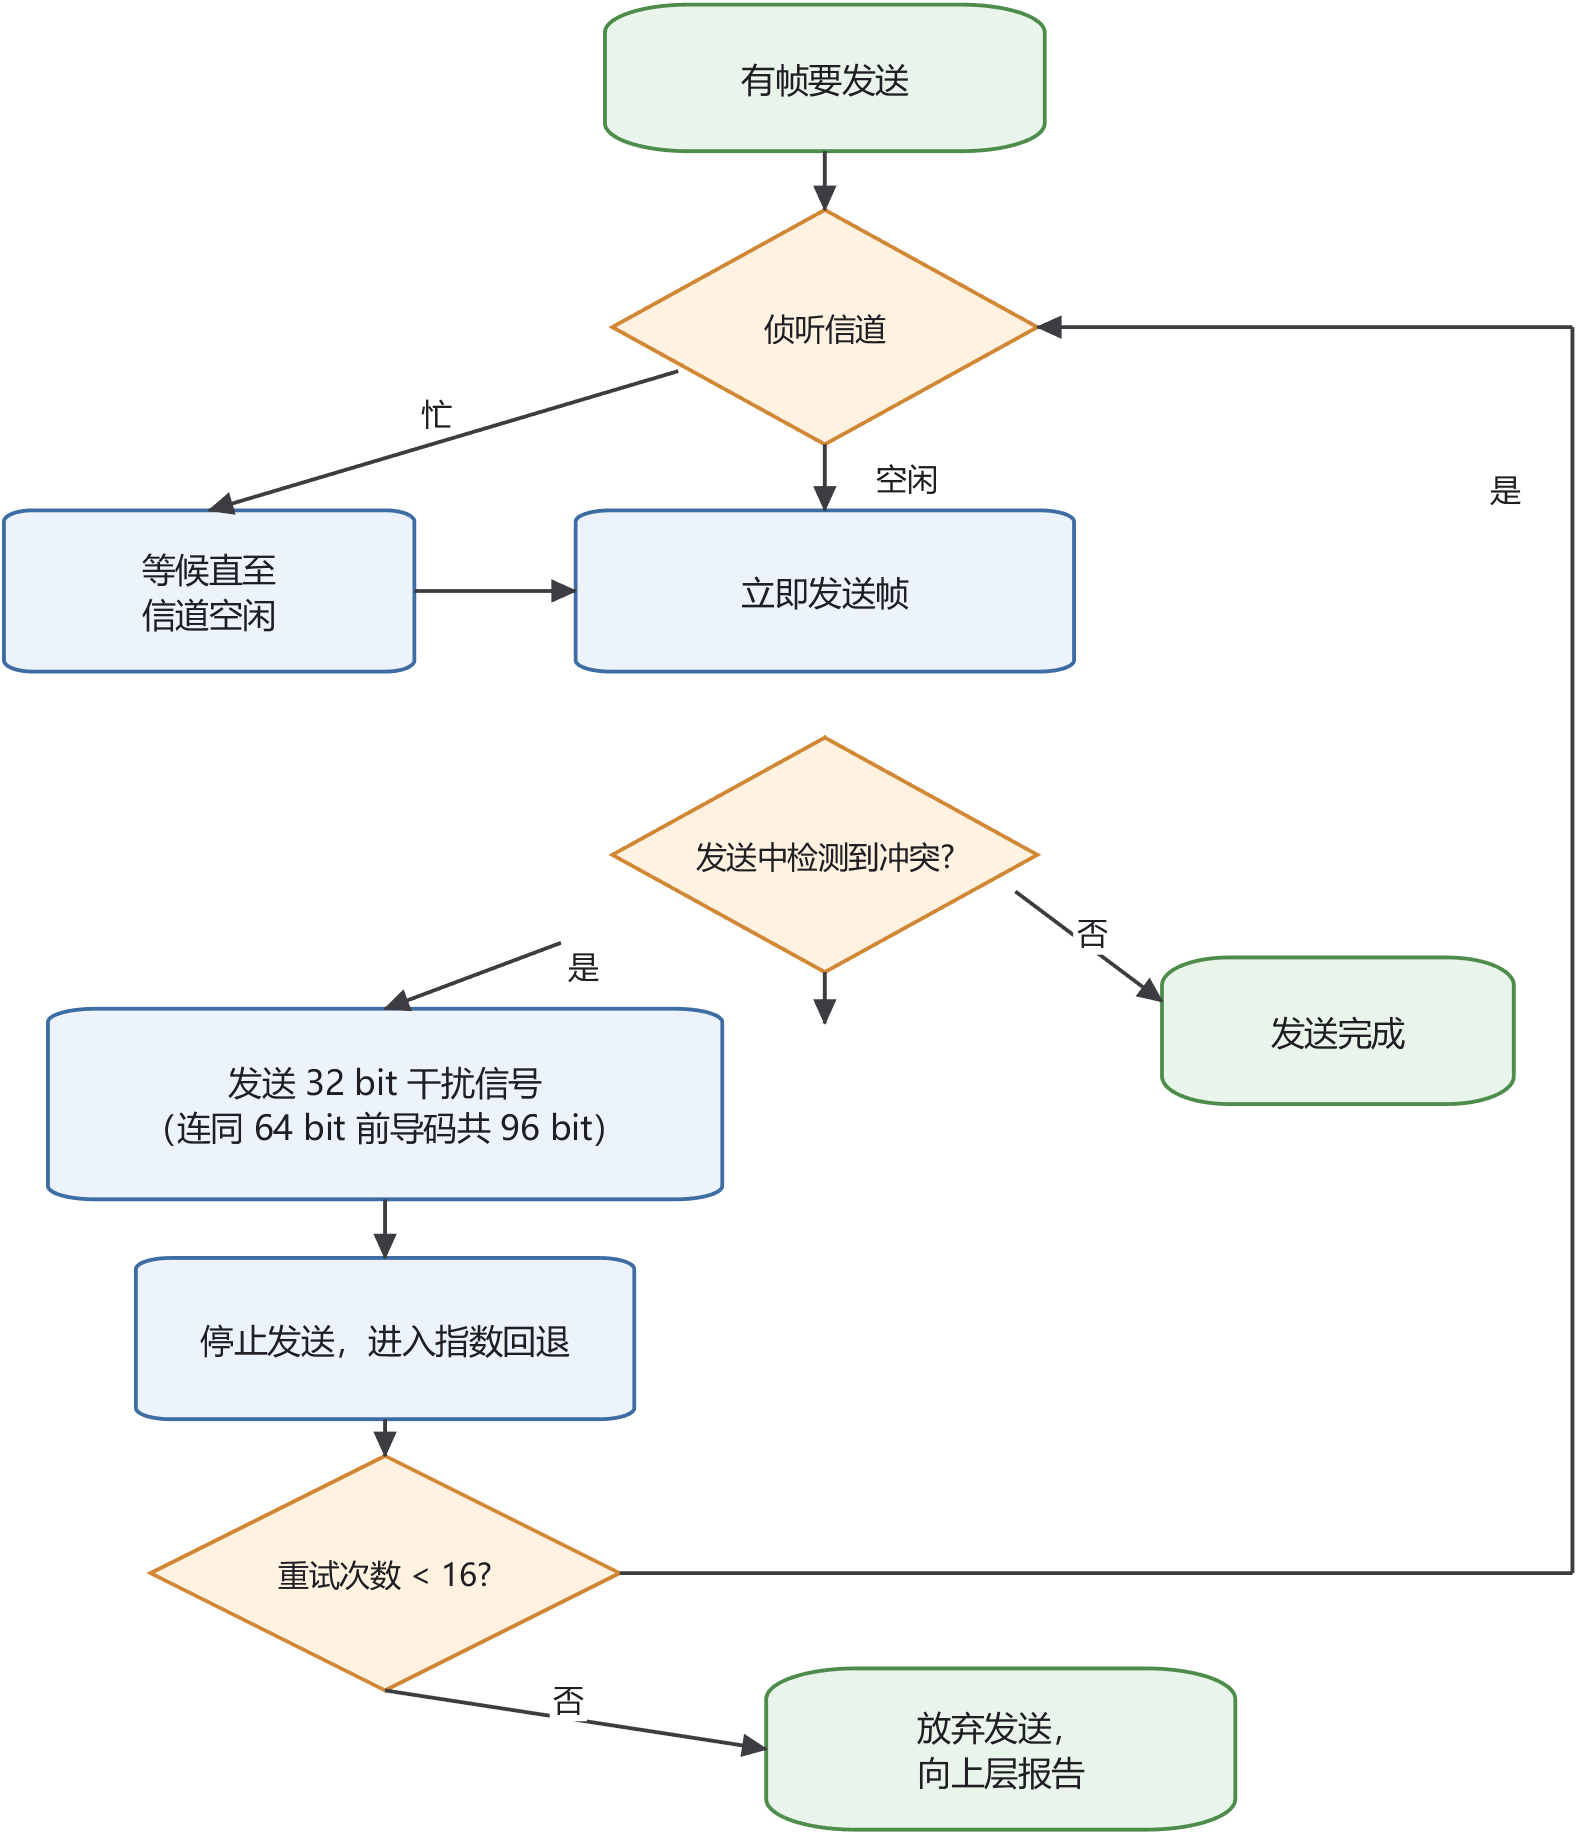
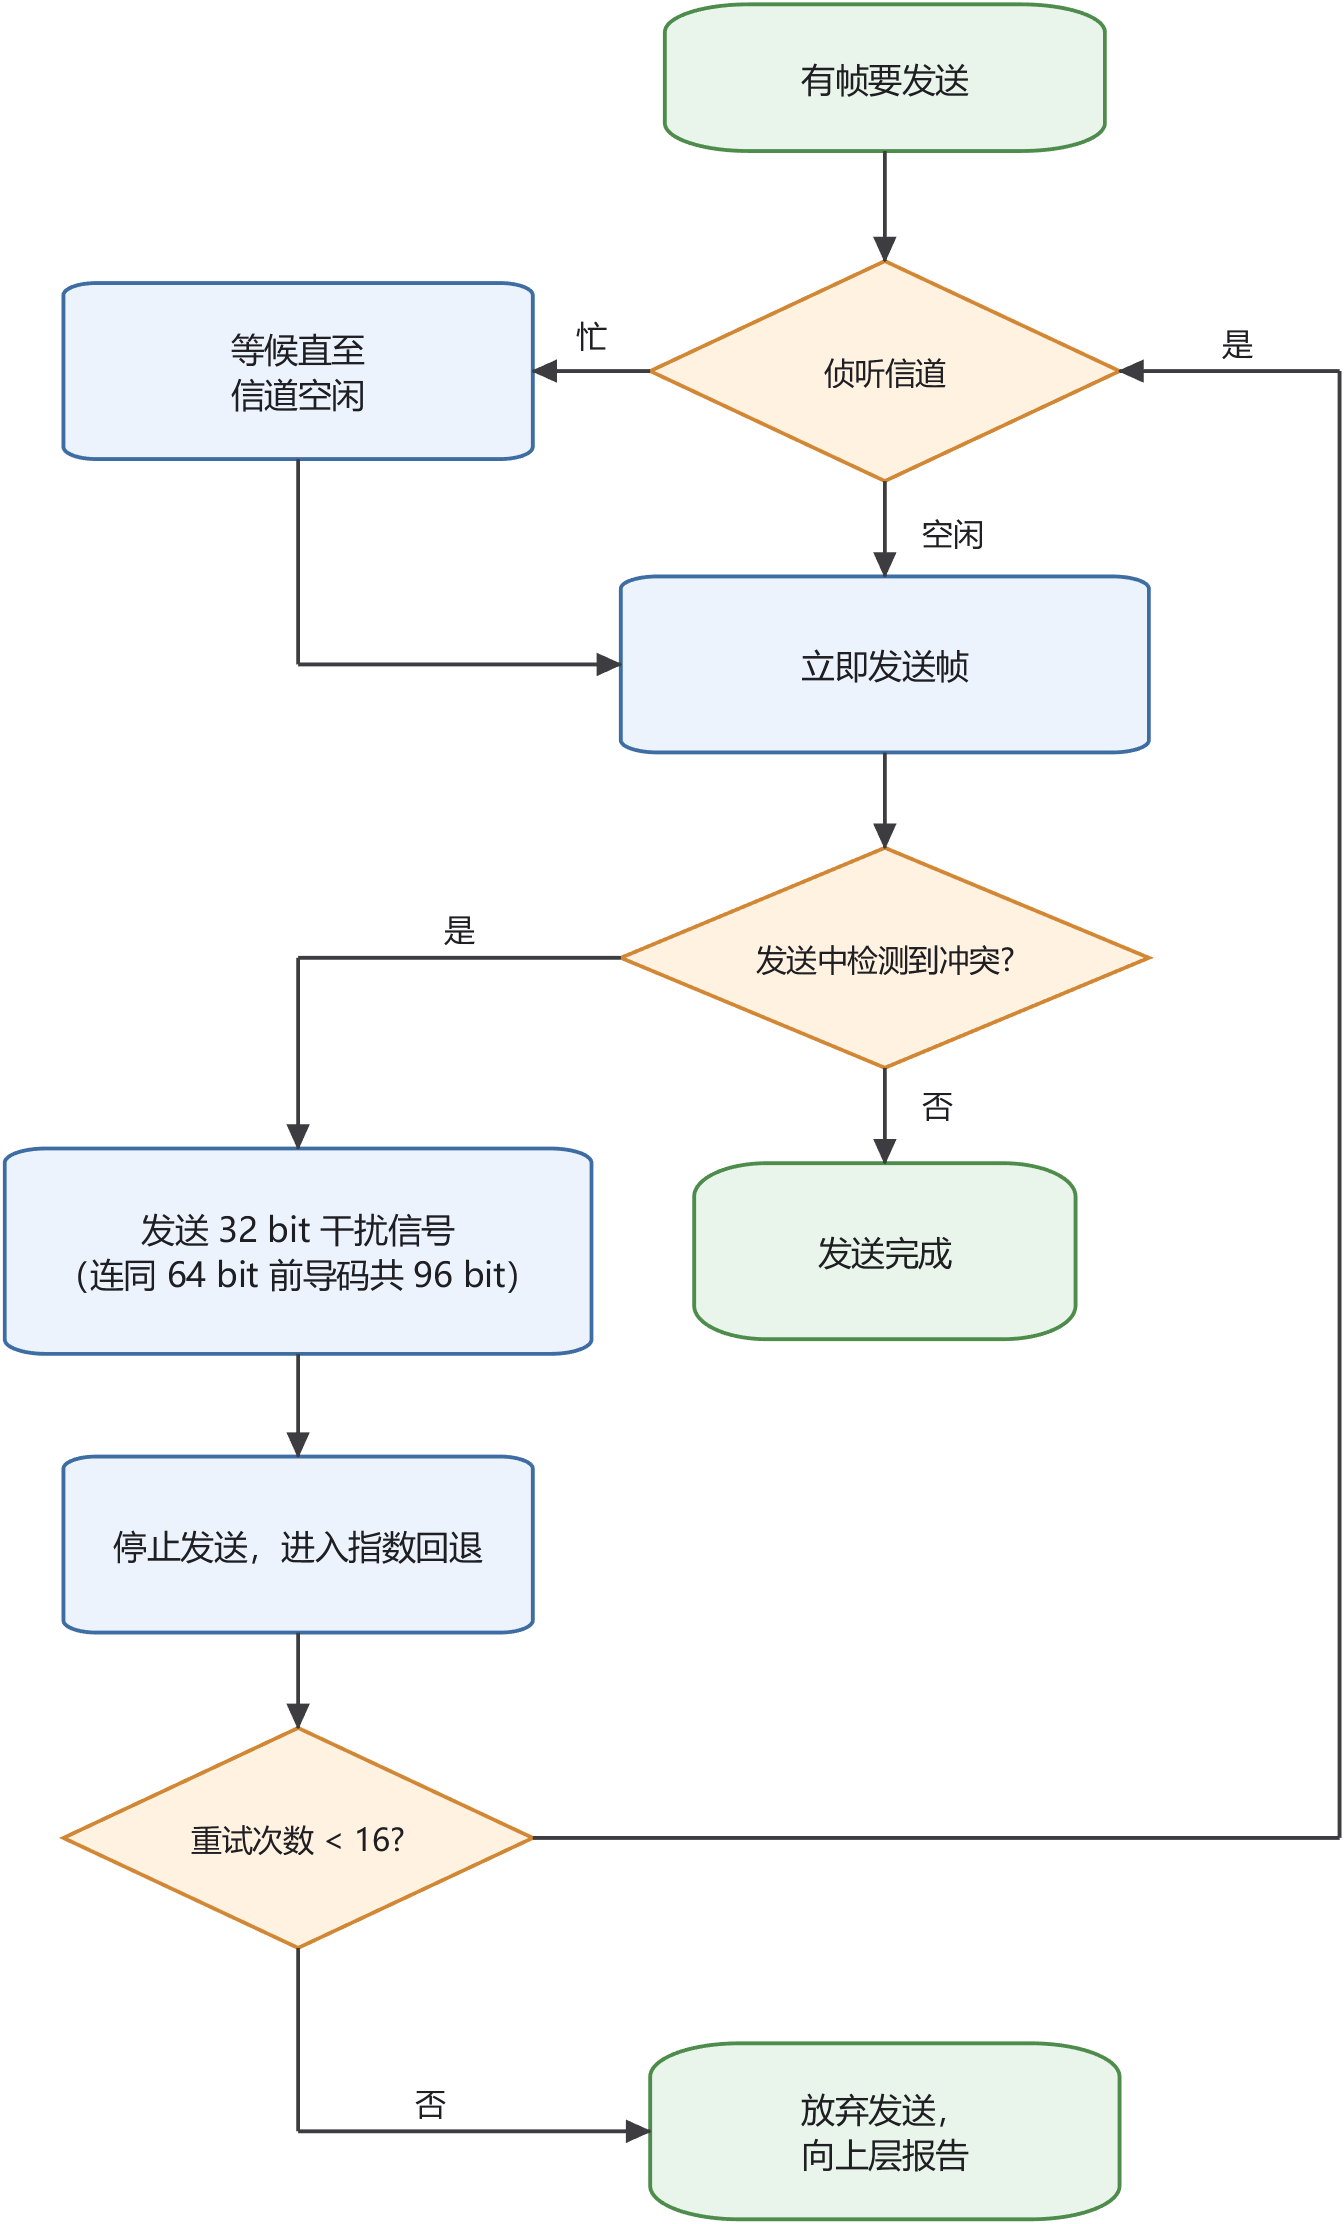
style: align CSMA/CD and CSMA/CA flowcharts to a strict grid

diff --git a/scripts/matlab/redraw_computer_network_diagrams.m b/scripts/matlab/redraw_computer_network_diagrams.m
@@ -57,75 +57,72 @@ end
 saveFig(fig, OUTDIR, '02-encapsulation');
 
 %% 3. CSMA/CD 流程图
-W = 11.8; H = 13.2;
+W = 10.8; H = 16.0;
 [fig, ax] = newCanvas(W, H, S);
-drawBox(ax, S, 5.8, 12.0, 3.0, 1.0, {'有帧要发送'}, 'terminal');
-drawDiamond(ax, S, 5.8, 10.3, 2.9, 1.6, {'侦听信道'});
-drawBox(ax, S, 5.8, 8.5, 3.4, 1.1, {'立即发送帧'}, 'process');
-drawBox(ax, S, 1.6, 8.5, 2.8, 1.1, {'等候直至', '信道空闲'}, 'process');
-drawDiamond(ax, S, 5.8, 6.7, 2.9, 1.6, {'发送中检测到冲突?'});
-drawBox(ax, S, 9.3, 5.5, 2.4, 1.0, {'发送完成'}, 'terminal');
-drawBox(ax, S, 2.8, 5.0, 4.6, 1.3, {'发送 32 bit 干扰信号', '（连同 64 bit 前导码共 96 bit）'}, 'process');
-drawBox(ax, S, 2.8, 3.4, 3.4, 1.1, {'停止发送，进入指数回退'}, 'process');
-drawDiamond(ax, S, 2.8, 1.8, 3.2, 1.6, {'重试次数 < 16?'});
-drawBox(ax, S, 7.0, 0.6, 3.2, 1.1, {'放弃发送，', '向上层报告'}, 'terminal');
-drawArrow(ax, S, [5.8 11.5], [5.8 11.1]);
-drawArrow(ax, S, [5.8 9.5], [5.8 9.05]);
-drawArrow(ax, S, [4.8 10.0], [1.6 9.05]);
-drawArrow(ax, S, [3.0 8.5], [4.1 8.5]);
-drawArrow(ax, S, [5.8 5.9], [5.8 5.55]);
-drawArrow(ax, S, [7.1 6.45], [8.1 5.7]);
-drawArrow(ax, S, [4.0 6.1], [2.8 5.65]);
-drawArrow(ax, S, [2.8 4.35], [2.8 3.95]);
-drawArrow(ax, S, [2.8 2.85], [2.8 2.6]);
-drawArrow(ax, S, [2.8 1.0], [5.4 0.6]);
-drawPolyArrow(ax, S, [4.4 1.8; 10.9 1.8; 10.9 10.3; 7.25 10.3]);
-label(ax, S, 6.15, 9.28, '空闲', 'left');
-label(ax, S, 3.15, 9.72, '忙', 'center');
-label(ax, S, 7.62, 6.18, '否', 'center');
-label(ax, S, 4.15, 5.95, '是', 'center');
-label(ax, S, 4.05, 0.95, '否', 'center');
-label(ax, S, 10.55, 9.2, '是', 'right');
+drawBox(ax, S, 6.5, 15.0, 3.0, 1.0, {'有帧要发送'}, 'terminal');
+drawDiamond(ax, S, 6.5, 13.0, 3.2, 1.5, {'侦听信道'});
+drawBox(ax, S, 6.5, 11.0, 3.6, 1.2, {'立即发送帧'}, 'process');
+drawBox(ax, S, 2.5, 13.0, 3.2, 1.2, {'等候直至', '信道空闲'}, 'process');
+drawDiamond(ax, S, 6.5, 9.0, 3.6, 1.5, {'发送中检测到冲突?'});
+drawBox(ax, S, 6.5, 7.0, 2.6, 1.2, {'发送完成'}, 'terminal');
+drawBox(ax, S, 2.5, 7.0, 4.0, 1.4, {'发送 32 bit 干扰信号', '（连同 64 bit 前导码共 96 bit）'}, 'process');
+drawBox(ax, S, 2.5, 5.0, 3.2, 1.2, {'停止发送，进入指数回退'}, 'process');
+drawDiamond(ax, S, 2.5, 3.0, 3.2, 1.5, {'重试次数 < 16?'});
+drawBox(ax, S, 6.5, 1.0, 3.2, 1.2, {'放弃发送，', '向上层报告'}, 'terminal');
+drawArrow(ax, S, [6.5 14.5], [6.5 13.75]);
+drawArrow(ax, S, [6.5 12.25], [6.5 11.6]);
+drawArrow(ax, S, [4.9 13.0], [4.1 13.0]);
+drawPolyArrow(ax, S, [2.5 12.4; 2.5 11.0; 4.7 11.0]);
+drawArrow(ax, S, [6.5 10.4], [6.5 9.75]);
+drawArrow(ax, S, [6.5 8.25], [6.5 7.6]);
+drawPolyArrow(ax, S, [4.7 9.0; 2.5 9.0; 2.5 7.7]);
+drawArrow(ax, S, [2.5 6.3], [2.5 5.6]);
+drawArrow(ax, S, [2.5 4.4], [2.5 3.75]);
+drawPolyArrow(ax, S, [4.1 3.0; 9.6 3.0; 9.6 13.0; 8.1 13.0]);
+drawPolyArrow(ax, S, [2.5 2.25; 2.5 1.0; 4.9 1.0]);
+label(ax, S, 6.75, 11.9, '空闲', 'left');
+label(ax, S, 4.5, 13.25, '忙', 'center');
+label(ax, S, 6.75, 8.0, '否', 'left');
+label(ax, S, 3.6, 9.2, '是', 'center');
+label(ax, S, 8.9, 13.2, '是', 'center');
+label(ax, S, 3.4, 1.2, '否', 'center');
 saveFig(fig, OUTDIR, '03-csma-cd');
-
 %% 4. CSMA/CA 流程图
-W = 12.8; H = 12.0;
+W = 15.6; H = 12.0;
 [fig, ax] = newCanvas(W, H, S);
-drawBox(ax, S, 6.8, 11.4, 3.0, 1.0, {'有帧要发送'}, 'terminal');
-drawDiamond(ax, S, 6.8, 9.8, 3.2, 1.6, {'侦听信道空闲 DIFS?'});
-drawBox(ax, S, 7.2, 8.0, 4.4, 1.2, {'发送整个帧（不做冲突检测）'}, 'process');
-drawBox(ax, S, 1.8, 8.6, 2.8, 1.2, {'启动随机回退定时器'}, 'process');
-drawDiamond(ax, S, 1.8, 6.6, 2.8, 1.6, {'信道空闲?'});
-drawBox(ax, S, 1.8, 5.0, 2.8, 1.1, {'定时器计时'}, 'process');
-drawBox(ax, S, 4.7, 6.6, 2.0, 1.1, {'定时器暂停'}, 'process');
-drawDiamond(ax, S, 1.8, 3.3, 2.8, 1.6, {'定时器到期?'});
-drawDiamond(ax, S, 7.4, 5.2, 2.8, 1.6, {'收到 ACK?'});
-drawBox(ax, S, 10.8, 2.0, 3.0, 1.2, {'若有后续帧，', '返回回退步骤'}, 'process');
-drawBox(ax, S, 6.4, 2.0, 3.4, 1.2, {'扩大回退范围', '（指数回退），重试'}, 'process');
-drawArrow(ax, S, [6.8 10.9], [6.8 10.6]);
-drawArrow(ax, S, [6.8 9.0], [6.9 8.6]);
-drawArrow(ax, S, [5.2 9.9], [1.8 9.2]);
-drawArrow(ax, S, [1.8 8.0], [1.8 7.4]);
-drawArrow(ax, S, [3.2 6.75], [3.7 6.75]);
-drawArrow(ax, S, [3.7 6.45], [3.2 6.45]);
-drawArrow(ax, S, [1.8 5.8], [1.8 5.55]);
-drawArrow(ax, S, [1.8 4.45], [1.8 4.1]);
-drawPolyArrow(ax, S, [0.4 3.3; 0.25 3.3; 0.25 6.6; 0.4 6.6]);
-drawPolyArrow(ax, S, [3.2 3.3; 9.6 3.3; 9.6 7.4; 8.6 7.4]);
-drawArrow(ax, S, [7.2 7.4], [7.2 6.0]);
-drawPolyArrow(ax, S, [8.8 5.2; 9.0 5.2; 9.0 2.6; 9.6 2.6]);
-drawArrow(ax, S, [7.3 4.4], [6.5 2.6]);
-drawPolyArrow(ax, S, [4.7 2.0; 0.05 2.0; 0.05 8.6; 0.4 8.6]);
-label(ax, S, 7.62, 9.15, '是', 'left');
-label(ax, S, 3.35, 9.75, '否', 'center');
-label(ax, S, 3.45, 6.95, '否', 'center');
-label(ax, S, 2.05, 5.65, '是', 'left');
-label(ax, S, 0.32, 4.2, '否', 'center');
-label(ax, S, 9.75, 5.4, '是', 'left');
-label(ax, S, 7.45, 3.65, '否', 'left');
-label(ax, S, 9.05, 3.65, '是', 'left');
+drawBox(ax, S, 9.2, 11.0, 3.0, 1.0, {'有帧要发送'}, 'terminal');
+drawDiamond(ax, S, 9.2, 9.0, 3.2, 1.5, {'侦听信道空闲 DIFS?'});
+drawBox(ax, S, 9.2, 7.0, 3.6, 1.2, {'发送整个帧（不做冲突检测）'}, 'process');
+drawBox(ax, S, 2.3, 9.0, 3.0, 1.2, {'启动随机回退定时器'}, 'process');
+drawDiamond(ax, S, 2.3, 7.0, 2.8, 1.5, {'信道空闲?'});
+drawBox(ax, S, 5.7, 7.0, 2.2, 1.1, {'定时器暂停'}, 'process');
+drawBox(ax, S, 2.3, 5.0, 3.0, 1.1, {'定时器计时'}, 'process');
+drawDiamond(ax, S, 2.3, 3.0, 2.8, 1.5, {'定时器到期?'});
+drawDiamond(ax, S, 9.2, 5.0, 3.2, 1.5, {'收到 ACK?'});
+drawBox(ax, S, 13.2, 5.0, 3.2, 1.2, {'若有后续帧，', '返回回退步骤'}, 'process');
+drawBox(ax, S, 2.3, 1.0, 3.0, 1.2, {'扩大回退范围', '（指数回退），重试'}, 'process');
+drawArrow(ax, S, [9.2 10.5], [9.2 9.75]);
+drawArrow(ax, S, [9.2 8.25], [9.2 7.6]);
+drawArrow(ax, S, [7.6 9.0], [3.8 9.0]);
+drawArrow(ax, S, [2.3 8.4], [2.3 7.75]);
+drawArrow(ax, S, [2.3 6.25], [2.3 5.55]);
+drawArrow(ax, S, [2.3 4.45], [2.3 3.75]);
+drawArrow(ax, S, [3.42 7.15], [4.6 7.15]);
+drawArrow(ax, S, [4.6 6.85], [3.42 6.85]);
+drawPolyArrow(ax, S, [0.8 3.0; 0.6 3.0; 0.6 7.0; 0.8 7.0]);
+drawPolyArrow(ax, S, [3.7 3.0; 7.0 3.0; 7.0 7.0; 7.4 7.0]);
+drawArrow(ax, S, [9.2 6.4], [9.2 5.75]);
+drawArrow(ax, S, [10.8 5.0], [11.6 5.0]);
+drawPolyArrow(ax, S, [9.2 4.25; 9.2 1.0; 3.8 1.0]);
+drawPolyArrow(ax, S, [0.8 1.0; 0.3 1.0; 0.3 9.0; 0.8 9.0]);
+label(ax, S, 9.45, 7.9, '是', 'left');
+label(ax, S, 5.7, 9.25, '否', 'center');
+label(ax, S, 4.0, 7.38, '否', 'center');
+label(ax, S, 0.68, 5.0, '否', 'center');
+label(ax, S, 7.15, 6.2, '是', 'left');
+label(ax, S, 11.2, 5.25, '是', 'center');
+label(ax, S, 6.5, 1.25, '否', 'center');
 saveFig(fig, OUTDIR, '04-csma-ca');
-
 fprintf('前 4 张图完成。\n');
 
 
